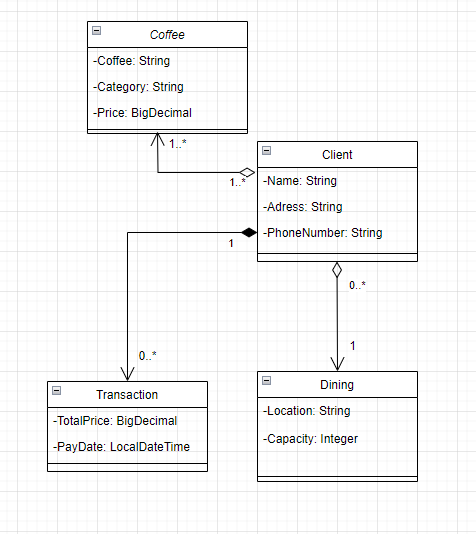
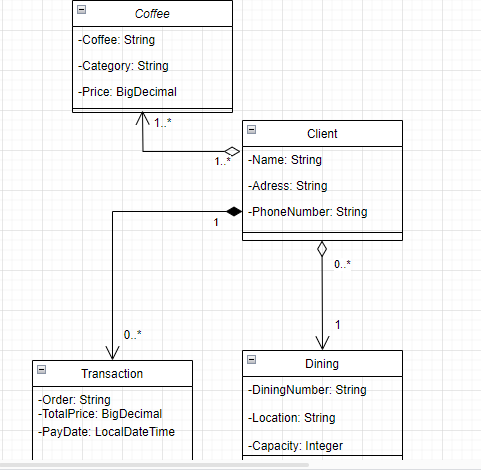
fixed UML model and code #473

Changed region(s): [[0.0, 0.0, 1.0, 1.0]]

diff --git a/src/main/java/es/upm/miw/apaw_practice/domain/models/coffee_shop/Dining.java b/src/main/java/es/upm/miw/apaw_practice/domain/models/coffee_shop/Dining.java
@@ -2,15 +2,25 @@ package es.upm.miw.apaw_practice.domain.models.coffee_shop;
 
 
 public class Dining {
+    private String diningNumber;
     private String location;
     private Integer capacity;
 
     public Dining() {
     }
 
-    public Dining(String location, Integer capacity) {
+    public Dining(String diningNumber, String location, Integer capacity) {
+        this.diningNumber = diningNumber;
         this.location = location;
         this.capacity = capacity;
+    }
+
+    public String getDiningNumber() {
+        return diningNumber;
+    }
+
+    public void setDiningNumber(String diningNumber) {
+        this.diningNumber = diningNumber;
     }
 
     public String getLocation() {
@@ -32,7 +42,8 @@ public class Dining {
     @Override
     public String toString() {
         return "Dining{" +
-                "location='" + location + '\'' +
+                "diningNumber='" + diningNumber + '\'' +
+                ", location='" + location + '\'' +
                 ", capacity=" + capacity +
                 '}';
     }

diff --git a/src/main/java/es/upm/miw/apaw_practice/domain/models/coffee_shop/Transaction.java b/src/main/java/es/upm/miw/apaw_practice/domain/models/coffee_shop/Transaction.java
@@ -4,15 +4,25 @@ import java.math.BigDecimal;
 import java.time.LocalDateTime;
 
 public class Transaction {
+    private String order;
     private BigDecimal totalPrice;
     private LocalDateTime payDate;
 
     public Transaction() {
     }
 
-    public Transaction(BigDecimal totalPrice, LocalDateTime payDate) {
+    public Transaction(String order, BigDecimal totalPrice, LocalDateTime payDate) {
+        this.order = order;
         this.totalPrice = totalPrice;
         this.payDate = payDate;
+    }
+
+    public String getOrder() {
+        return order;
+    }
+
+    public void setOrder(String order) {
+        this.order = order;
     }
 
     public BigDecimal getTotalPrice() {
@@ -34,7 +44,8 @@ public class Transaction {
     @Override
     public String toString() {
         return "Transaction{" +
-                "totalPrice=" + totalPrice +
+                "order='" + order + '\'' +
+                ", totalPrice=" + totalPrice +
                 ", payDate=" + payDate +
                 '}';
     }
